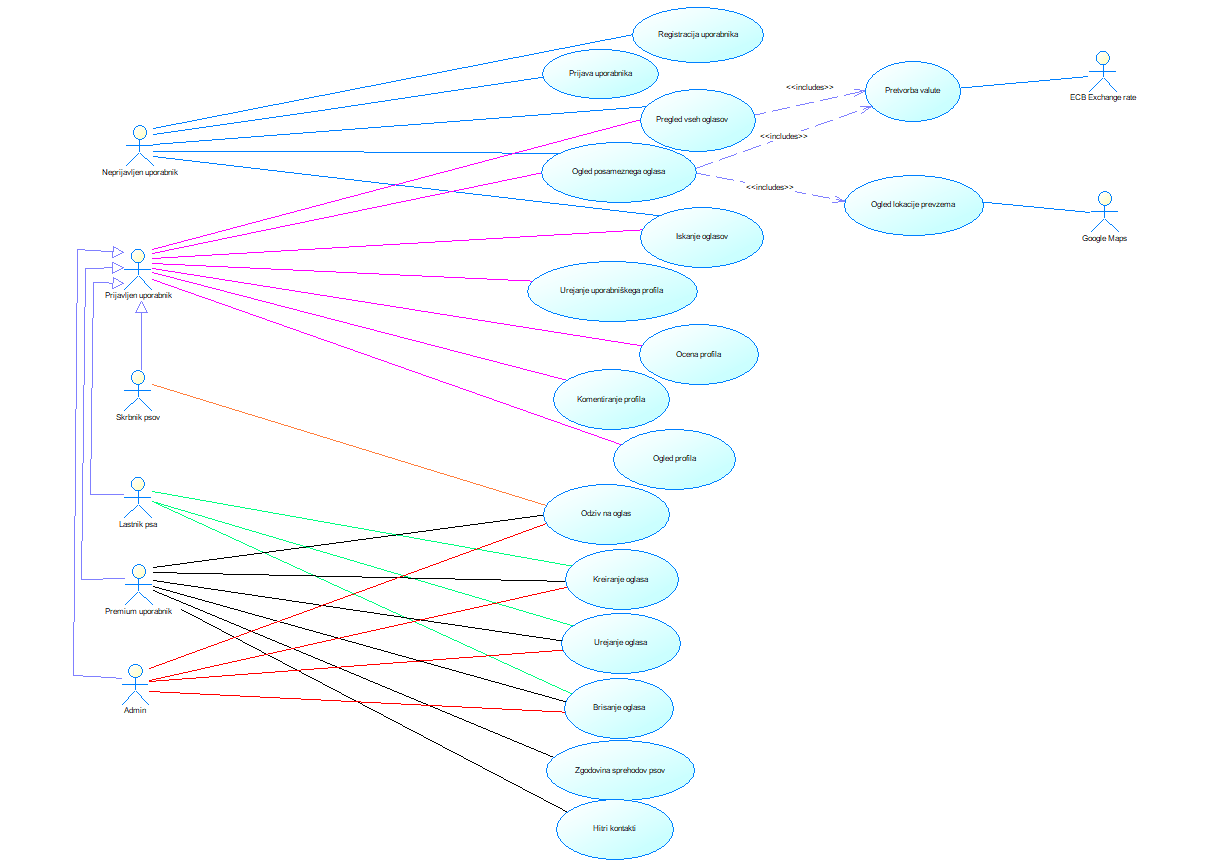
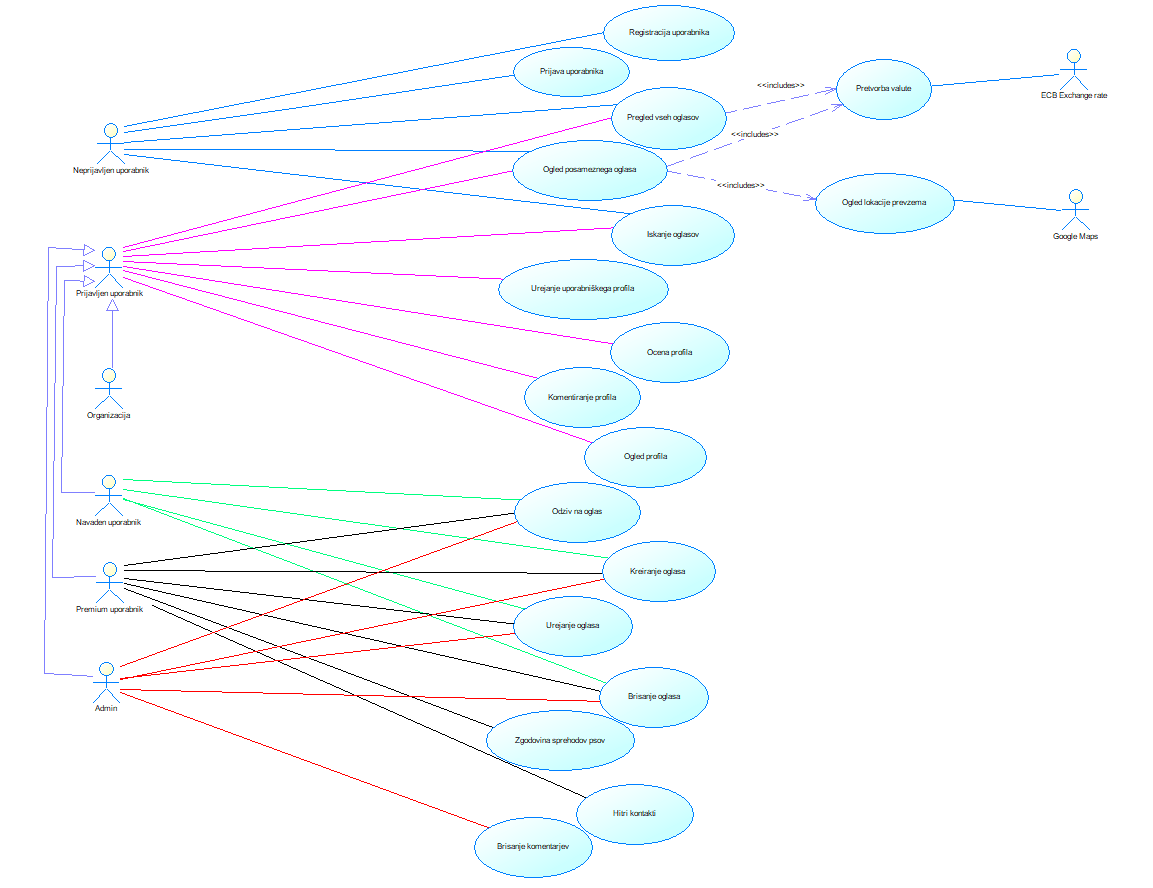
Popravljen use-case. lepotni popravki, dodana ena funkcionalna zahteva

diff --git a/docs/zajem-zahtev/README.md b/docs/zajem-zahtev/README.md
@@ -14,11 +14,10 @@
 
 ## 1. Uvod
 
-**TO-DO**
 
 Aplikacija Dog Walkers rešuje problematiko pomanjkanja časa skrbi za domače živali, predvsem časa za sprehode. Mnogi zaradi službenih ali drugačnih obveznosti, kot je npr. dopust, ne morejo posvetiti časa domači živali vendar si želijo nekoga, ki bi za nekaj časa poskrbel za njihovega ljubljenčka. Obstaja pa tudi veliko ljudi, ki bi si želelo ukvarjati z živalimi zaradi denarja ali pa ker vedo da živali ne morejo nuditi dovolj časa, vendar ga imajo dovolj nekaj ur tedensko. Ponujamo rešitev, ki ti dve skupini ljudi poveže na našem portalu Dog Walkers.  
    
-Aplikacija ponuja 3 različne profile. Skrbnik psov, lastnik psa ter premium uporabnik. Vsem je omogočeno brskanje po oglasih malih ljubljenčkov, ki potrebujejo varstvo. Oglasi vključujejo lokacijo prevzema ter valuto pretvorjeno po meri uporabnika. Profile uporabnikov je mogoče komentirati in ocenjevati glede na izkušnjo z uporabnikom ali njihovim štirinogim prijateljem. Skrbniki psov se lahko odzivajo na oglase lastnikov psov, medtem ko lahko lastniki te oglase kreirajo, urejajo ter brišejo. Premium uporabnik pa poleg vseh teh funkcionalnosti pridobi še pregled nad zgodovino sprehodov psov ter možnost dodajanja profilov med hitre kontakte.
+Aplikacija ponuja 3 različne profile: navaden uporabnik, organizacija ter premium uporabnik. Vsem je omogočeno brskanje po oglasih malih ljubljenčkov, ki potrebujejo varstvo. Oglasi vključujejo lokacijo prevzema ter valuto pretvorjeno po meri uporabnika. Profile uporabnikov je mogoče komentirati in ocenjevati glede na izkušnjo z uporabnikom ali njihovim štirinogim prijateljem. Skrbniki psov se lahko odzivajo na oglase lastnikov psov, medtem ko lahko lastniki te oglase kreirajo, urejajo ter brišejo. Premium uporabnik pa poleg vseh teh funkcionalnosti pridobi še pregled nad zgodovino sprehodov psov ter možnost dodajanja profilov med hitre kontakte.
 
 ## 2. Uporabniške vloge
 
@@ -27,14 +26,14 @@ Aplikacija ponuja 3 različne profile. Skrbnik psov, lastnik psa ter premium upo
 **Neprijavljen uporabnik**  
 Neprijavljen uporabnik si lahko ogleda seznam vseh oglase ter posamezne oglase. Oglase lahko tudi išče preko vgrajenega iskalnika. Vsak oglas ima vsebuje tudi funkcionalnosti lokacije prevzema psa ter pretvorbe valut, tako da ju vidi tudi neprijavljen uporabnik. Vsak neprijavljen uporabnik se ima možnost tudi registrirati ali prijaviti v sistem.  
   
-**Skrbnik psov**  
-Skrbnik psov je prvi izmed prijavljenih uporabnikov. Vsi **prijavljenih uporabniki** imajo naslednje funkcionalnosti: ogled seznama vseh oglasov ter posamezne oglase (s pripadujočima lokacija prevzema psa ter pretvorba valut), urejanje uporabniškega profila, iskanje oglasov, podajanje ocene ter podajanje komentarja profilu. Skrbnik psov ima še možnost se odzvati na oglase psov, ki potrebujejo skrbnika.  
-  
-**Lastnik psa**  
-Lastnik psa ima vse funkcionalnosti **prijavljenega uporabnika**, ki so našteti pri Skrbniku psov, hkrati pa ima še možnost ustvarjanja, urejanja ter brisanje posameznega oglasa, ki ga je objavil sam.  
-  
+**Organizacija**  
+Organizacija je uporabniška vloga namenjena podjetje, ki želijo ponuditi svoje produkte lastnikom psov, zavetiščom ki potrebujejo prostovoljce itd. Organizacija ima najbolj osnovne funkcionalnosti saj imajo njene funkcionalnosti vključene tudi vse preostale vloge. Vsi **prijavljeni uporabniki** imajo naslednje funkcionalnosti: ogled seznama vseh oglasov ter posamezne oglase (s pripadujočima lokacija prevzema psa ter pretvorba valut), urejanje uporabniškega profila, iskanje oglasov, podajanje ocene ter podajanje komentarja profilu in še možnost ustvarjanja, urejanja ter brisanje posameznega oglasa ki ga je objavil sam. Organizacija nima nobenih unikatnih funcionalnostih.  
+
+**Navaden uporabnik**  
+Navaden uporabnik je uporabniška vloga namenjena tako skrbnikom psov kot tudi lastnikom psov saj se ti vlogi pogosto mešajo. Ima vse funkcionalnosti **Organizacije** oz. **prijavljenega uporabnika**, hkrati pa ima dodatno še možnost se odzivati na oglase ostalih uporabnikov.  
+   
 **Premium uporabnik**  
-Premium uporabnik združuje vse funkcionalnosti Skrbnika psov ter Lastnika psa ter dodaja še možnost ogleda zgodovine sprehodov psov ter dodajanja profilov pod hitre kontakte.  
+Premium uporabnik združuje vse funkcionalnosti Skrbnika psov ter Lastnika psa ter dodaja še možnost ogleda zgodovine sprehodov psov ter dodajanja profilov pod hitre kontakte. Premium uporabniku se tudi ne prikazujejo oglasi. 
   
 **Admin**  
 Admin ima vse funkcionalnosti Skrbnika psov ter dodajanje in možnost urejanja in brisanja katerega koli oglasa na portalu DogWalkers kot tudi brisanje vseh komentarjev na profilih uporabnikov.  
@@ -69,13 +68,16 @@ V tem razdelku podrobno opišite posamezne funkcionalnosti, ki jih vaša aplikac
 | dodaj profil pod "hitre kontakte" | | | | 
 | brisanje komentarjev | | | | 
 
-### **Naziv Zahteve**
 
-**Registracija uporabnika**
+  
+  
+### **5.1 REGISTRACIJA UPORABNIKA**
+
 
 ### **Povzetek funkcionalnosti**
 
 **Neprijavlen (neregistriran) uporabnik** lahko ustvari nov uporabniški račun. 
+
 
 ### **Osnovni Tok**
 
@@ -86,6 +88,7 @@ V tem razdelku podrobno opišite posamezne funkcionalnosti, ki jih vaša aplikac
 4. Sistem preveri, če so vsi vnosi veljavni in če morda uporabnik s tem uporabniškim imenom ali e-poštnim naslovom obstaja
 5. Sistem potrdi registracijo in na e-poštni naslov novega uporabnika pošlje potrditveno sporočilo
 
+
 ### **Izjemni Tok** 
 
 1. Neprijavleni uporabnik v orodni vrstici izbere funkcionalnost ustvari račun
@@ -95,11 +98,13 @@ V tem razdelku podrobno opišite posamezne funkcionalnosti, ki jih vaša aplikac
 4. Sistem preveri, če so vsi vnosi veljavni in če morda uporabnik s tem uporabniškim imenom ali e-poštnim naslovom obstaja
 5. Sistem javi, da uporabnik s tem uporabniškim imenom ali e-poštnim naslovom že obstaja oz. da se geslo ne ujema z podanimi omejitavmi
 
+
 #### Alternativni tok(ovi)
 
 **TO-DO**
 
 - Navesti je potrebno vse alternativne tokove, ki jih označite kot **Alternativni tok 1**, **Alternativni tok 2**, itd.
+
 
 #### **Pogoji**
 
@@ -111,6 +116,7 @@ V tem razdelku podrobno opišite posamezne funkcionalnosti, ki jih vaša aplikac
 
 Uporabnik ne sme biti prijavlen 
 
+
 #### Posledice
 
 **TO-DO**
@@ -118,6 +124,7 @@ Uporabnik ne sme biti prijavlen
 - Navedite, kakšen je rezultat izvedbe osnovnega toka funkcionalnosti?
 
 Ustvarjen je nov uporabniški račun
+
 
 #### Posebnosti
 
@@ -128,28 +135,9 @@ Ustvarjen je nov uporabniški račun
 
 Geslo novega uporabnika mora biti zgoščeno s standaradom SHA-2
 
-### **Naziv Zahteve**
 
-**Prijava uporabnika**
-
-### **Povzetek funkcionalnosti**
-
-**Admin, Lastnik Psa, Premium Uporabnik in Skrbnik Psa** se lahko prijavijo v sistem. 
-
-### **Osnovni Tok**
-
-1. Neprijavljeni uporabnik izbere funkcionalnost prijava
-2. Sistem odpre okno z vpisnimi polji za uporabniško ime / e-poštni naslov in geslo
-3. Neprijavleni uporabnik vnese podatke za prijavo
-4. Sistem preveri, če vneseni uporabniški račun obstaja in če je geslo pravilno
-5. Sistem javi, da je prijava uspela, prijavleni uporabnik je preosmerjen na domačo stran.
-
-### **Izjemni Tok** 
-1. Neprijavljeni uporabnik izbere funkcionalnost prijava
-2. Sistem odpre okno z vpisnimi polji za uporabniško ime / e-poštni naslov in geslo
-3. Neprijavleni uporabnik vnese podatke za prijavo
-4. Sistem preveri, če vneseni uporabniški račun obstaja in če je geslo pravilno
-5. Sistem neprijavlenem uporabniku sporoči da ta uporabnik ne obstaja ali pa da je geslo napačno; prijava ni uspela 
+### **Prioriteta:**
+MUST have
 
 
 #### Sprejemni testi
@@ -161,14 +149,93 @@ Geslo novega uporabnika mora biti zgoščeno s standaradom SHA-2
   - začetno stanje sistema,
   - vhod in
   - pričakovan rezultat.
+  
+  
+### **5.2 PRIJAVA UPORABNIKA**
 
-### **Naziv Zahteve**
 
-**Urejanje uporabniškega profila**
+### **Povzetek funkcionalnosti**
+
+**Admin, Lastnik Psa, Premium Uporabnik in Skrbnik Psa** se lahko prijavijo v sistem. 
+
+
+### **Osnovni Tok**
+
+1. Neprijavljeni uporabnik izbere funkcionalnost prijava
+2. Sistem odpre okno z vpisnimi polji za uporabniško ime / e-poštni naslov in geslo
+3. Neprijavleni uporabnik vnese podatke za prijavo
+4. Sistem preveri, če vneseni uporabniški račun obstaja in če je geslo pravilno
+5. Sistem javi, da je prijava uspela, prijavleni uporabnik je preosmerjen na domačo stran.
+
+
+### **Izjemni Tok** 
+1. Neprijavljeni uporabnik izbere funkcionalnost prijava
+2. Sistem odpre okno z vpisnimi polji za uporabniško ime / e-poštni naslov in geslo
+3. Neprijavleni uporabnik vnese podatke za prijavo
+4. Sistem preveri, če vneseni uporabniški račun obstaja in če je geslo pravilno
+5. Sistem neprijavlenem uporabniku sporoči da ta uporabnik ne obstaja ali pa da je geslo napačno; prijava ni uspela 
+
+
+#### **Alternativni tok(ovi)**
+
+**TO-DO**
+
+- Navesti je potrebno vse alternativne tokove, ki jih označite kot **Alternativni tok 1**, **Alternativni tok 2**, itd.
+
+
+#### **Pogoji**
+
+**TO-DO**
+
+- Kateri pogoji morajo biti izpolnjeni, da se funkcionalnost lahko prične izvajati?
+
+- Pri funkcionalnosti Prijava na izpit mora biti uporabnik v sistem prijavljen kot študent ali referent. Če ni prijavljen ali pa če je prijavljen kot učitelj ali skrbnik, mu funkcionalnost ni na voljo.
+
+Uporabnik ne sme biti prijavlen 
+
+
+#### **Posledice**
+
+**TO-DO**
+
+- Navedite, kakšen je rezultat izvedbe osnovnega toka funkcionalnosti?
+
+Ustvarjen je nov uporabniški račun
+
+
+#### **Posebnosti**
+
+**TO-DO**
+
+- Ali realizacija funkcionalnosti zahteva kakšne posebnosti, kot je npr. dodatna strojna oprema?
+- Se je potrebno držati kakšnih posebnih standardov?
+
+Geslo novega uporabnika mora biti zgoščeno s standaradom SHA-2
+
+
+### **Prioriteta:**
+MUST have
+
+
+#### **Sprejemni testi**
+
+**TO-DO**
+
+- Navedite sprejmne teste, kjer opišete:
+  - funkcijo, ki se testira,
+  - začetno stanje sistema,
+  - vhod in
+  - pričakovan rezultat.
+
+  
+  
+### **5.3 UREJANJE UPORABNIŠKEGA PROFILA**
+
 
 ### **Povzetek funkcionalnosti**
 
 **Admin, Lastnik Psa, Premium Uporabnik in Skrbnik Psa** lahko urejajo nastavitve lastnega profila, ko so prijavljeni v aplikacijo. 
+
 
 ### **Osnovni Tok**
 
@@ -180,8 +247,10 @@ Geslo novega uporabnika mora biti zgoščeno s standaradom SHA-2
 6. Prijavljeni uporabnik izbere funkcionalnost shrani.
 7. Sistem preveri ali so spremenjeni podatki zapisani z dovoljenimi znaki in omejene dolžine ter shrani spremembe in uporabnika iz obrazca vrne na ogled profila.
 
+
 ### **Alternativni Tok** 
 **TO-DO**
+
 
 ### **Izjemni Tokovi** 
 - Prijavljen uporabnik izbere funkcionalnost ogled profila in izbere urejanje.
@@ -199,19 +268,24 @@ Sistem ne dovoli shranjevanja in opozori na napačen format znakov v teh vnosnih
 Prijavljen uporabnik spremeni vnosna polja vendar ne potrdi shranjevanja sprememb. Spremembe
 v urejanju se ne shranijo.
 
+
 ### **Pogoji**
 Uporabnik mora biti registriran v sistemu in prijavljen.
+
 
 ### **Posledice**
 Uporabnikovi osebni podatki so spremenjeni. Spremembe so vidne tudi ostalim uporabnikom
 sistema, ko si ogledajo njegov profil.
 
+
 ### **Posebnosti**
 **TO-DO**
 Sistem mora podpirati možnost (gumb) nalaganja profilne slike omejene velikosti iz uporabnikovega računalnika v sistem na profil??? => če damo to potem je treba popravit/dopolnit tokove
 
+
 ### **Prioriteta:**
 MUST have
+
 
 ### **Sprejemni testi**
 **TO-DO** (mrbit za dopolnit?)
@@ -226,16 +300,17 @@ MUST have
 
 - Izberi svoj profil in izberi urejanje, spremeni vnosno/-a polje/-a in ne shrani urejanja.
 
+  
+  
+### **5.4 PODAJ OCENO PROFILU**
 
-### **Naziv Zahteve**
-
-**Podaj oceno profilu**
 
 ### **Povzetek funkcionalnosti**
 
 TO-DO : nekje bo treba upoštevat in napisat še kaj glede profilov, ki še nimajo ocene.
 
 **Admin, Lastnik Psa, Premium Uporabnik in Skrbnik Psa** lahko podajo kvantitativno oceno profilu s katerim so vsaj enkrat stopili v kontakt oziroma opravili medsebojno storitev, katere v namen nudi aplikacija. 
+
 
 ### **Osnovni Tok**
 **TO-DO ZA POPRAVIT MALO KO BO VEČ ZAHTEV DEFINIRANIH!!**
@@ -247,8 +322,10 @@ TO-DO : nekje bo treba upoštevat in napisat še kaj glede profilov, ki še nima
 6. Uporabnik izbere oceno in potrdi izbor.
 7. Sistem posodobi skupno oceno ravnokar ocenjenega profila glede na podano oceno.
 
+
 ### **Alternativni Tok** 
 **TO-DO**
+
 
 ### **Izjemni Tokovi** 
 - Prijavljen uporabnik izbere funkcionalnost ogled profila drugega uporabnika in izbere urejanje ocene.
@@ -259,17 +336,22 @@ Sistem ne spremeni ocene in ohrani staro vrednost.
 Prijavljen uporabnik s tem uporabnikom še ni opravil nobene storitve, zato mu je urejanje
 ocene onemogočeno. Sistem zakrije izbiro urejanja ocene in izpiše obvestilo.
 
+
 ### **Pogoji**
 Uporabnik mora biti registriran v sistemu in prijavljen. Uporabnik, ki želi podati oceno drugemu uporabniku, mora imeti s tem uporabnikom že zgodovino sodelovanja oziroma opravljenih storitev preko aplikacije, sicer medsebojno ocenjevanje med uporabnikoma ni omogočeno na njunih profilih.
+
 
 ### **Posledice**
 Ocena profila, kateremu je uporabnik spreminjal svojo oceno se spremeni. Spremembe so vidne tudi ostalim uporabnikom v sklopu skupne ocene uporabnika, ko si ogledajo njegov profil.
 
+
 ### **Posebnosti**
 **TO-DO**
 
+
 ### **Prioriteta:**
 COULD have
+
 
 ### **Sprejemni testi**
 **TO-DO** treba je dopolnit še za izjemne tokove in mal lepš napisat use skp!!
@@ -280,8 +362,57 @@ Podaj oceno z lestvice in shrani spremembe.
 - Izberi profil uporabnika, ki je skrbnik psa, če si lastnik psa (velja tudi za premium, admin) in si že opravil storitev s tem skrbnikom psa in izberi urejanje ocene.
 Podaj oceno z lestvice in shrani spremembe.
 
+  
+  
+### **5.5 PREGLED VSEH OGLASOV**
 
 
+### **Povzetek funkcionalnosti**
+
+Vsi uporabniki si lahko ogledajo seznam vseh oglasov s sliko psa ter osnovnimi podatki. Pregled vseh oglasov je prva stran naše spletne aplikacije.
+
+
+### **Osnovni Tok**
+
+1. Ob naložitvi aplikacije se prikaže seznam vseh oglasov, ki so naloženi po 50 v straneh.
+
+
+### **Izjemni Tok** 
+
+Funckionalnost nima izjemnih tokov.
+
+#### **Alternativni tok(ovi)**
+
+Funkcionalnost nima alternativnih tokov
+
+#### **Pogoji**
+
+Funkcionalnost nima nobenih pogojev za izvedbo.
+
+#### **Posledice**
+
+Prikaže se seznam vseh aplikacij z nekaj osnovnimi podatki vsakega oglasa ter sliko psa ter ceno če je oglas skrbnika psov ali organizacije.
+
+### Posebnosti
+
+Funkcionalnost vključuje funkcionalnost **Pretvorba valut** za prikaz cen v uporabnikovi valuti.
+
+### **Prioriteta**
+MUST have
+
+#### **Sprejemni testi**
+
+**TO-DO**
+
+- Navedite sprejmne teste, kjer opišete:
+  - funkcijo, ki se testira,
+  - začetno stanje sistema,
+  - vhod in
+  - pričakovan rezultat.
+
+
+  
+  
 ## 6. Nefunkcionalne zahteve
 
 **TO-DO**
